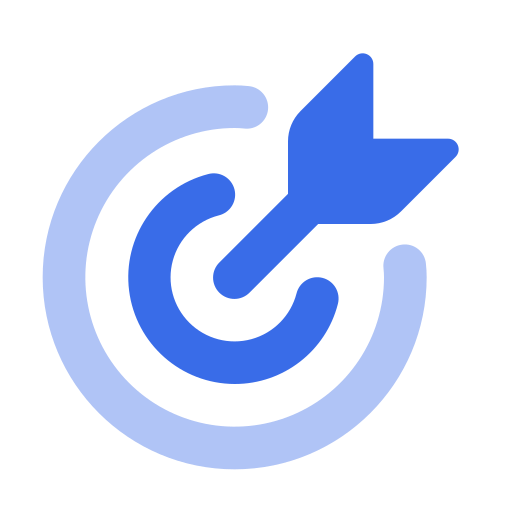
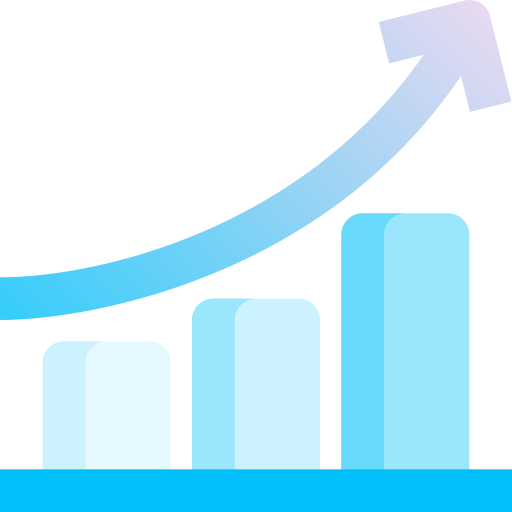
Add files via upload

diff --git a/index.html b/index.html
@@ -1983,7 +1983,7 @@ function updateDiscTimerTags(){
     const secs=getTodayDiscTime(disc);
     const isActive=disc===activeDisc;
     const h=Math.floor(secs/3600),m=Math.floor((secs%3600)/60);
-    el.innerHTML='<img src="duracao.png" alt="" style="width:13px;height:13px;vertical-align:middle;margin-right:2px"> '+h+':'+String(m).padStart(2,'0');
+    el.textContent=h+':'+String(m).padStart(2,'0');
     el.style.opacity=(secs>0||isActive)?'1':'0.3';
     el.classList.add('has-time');
   });
@@ -2606,7 +2606,7 @@ function getEffectiveAgenda() {
 
 // Limpa localStorage antigo se a versão do ciclo mudou
 (function(){const V='pdf-v3';if(localStorage.getItem('agenda_ver')!==V){localStorage.removeItem('plano_ct');localStorage.removeItem('plano_cc');localStorage.setItem('agenda_ver',V);}})();
-populateDiscSelect();loadTodayByDisc();updateTimerUI();
+populateDiscSelect();loadTodayByDisc();updateTimerUI();_timerButtonsUpdate();
 if(typeof Notification!=='undefined'&&Notification.permission==='default')Notification.requestPermission();
 // Set start date input
 const _sd=document.getElementById("cfg-start-date");if(_sd)_sd.value=loadStartDate();